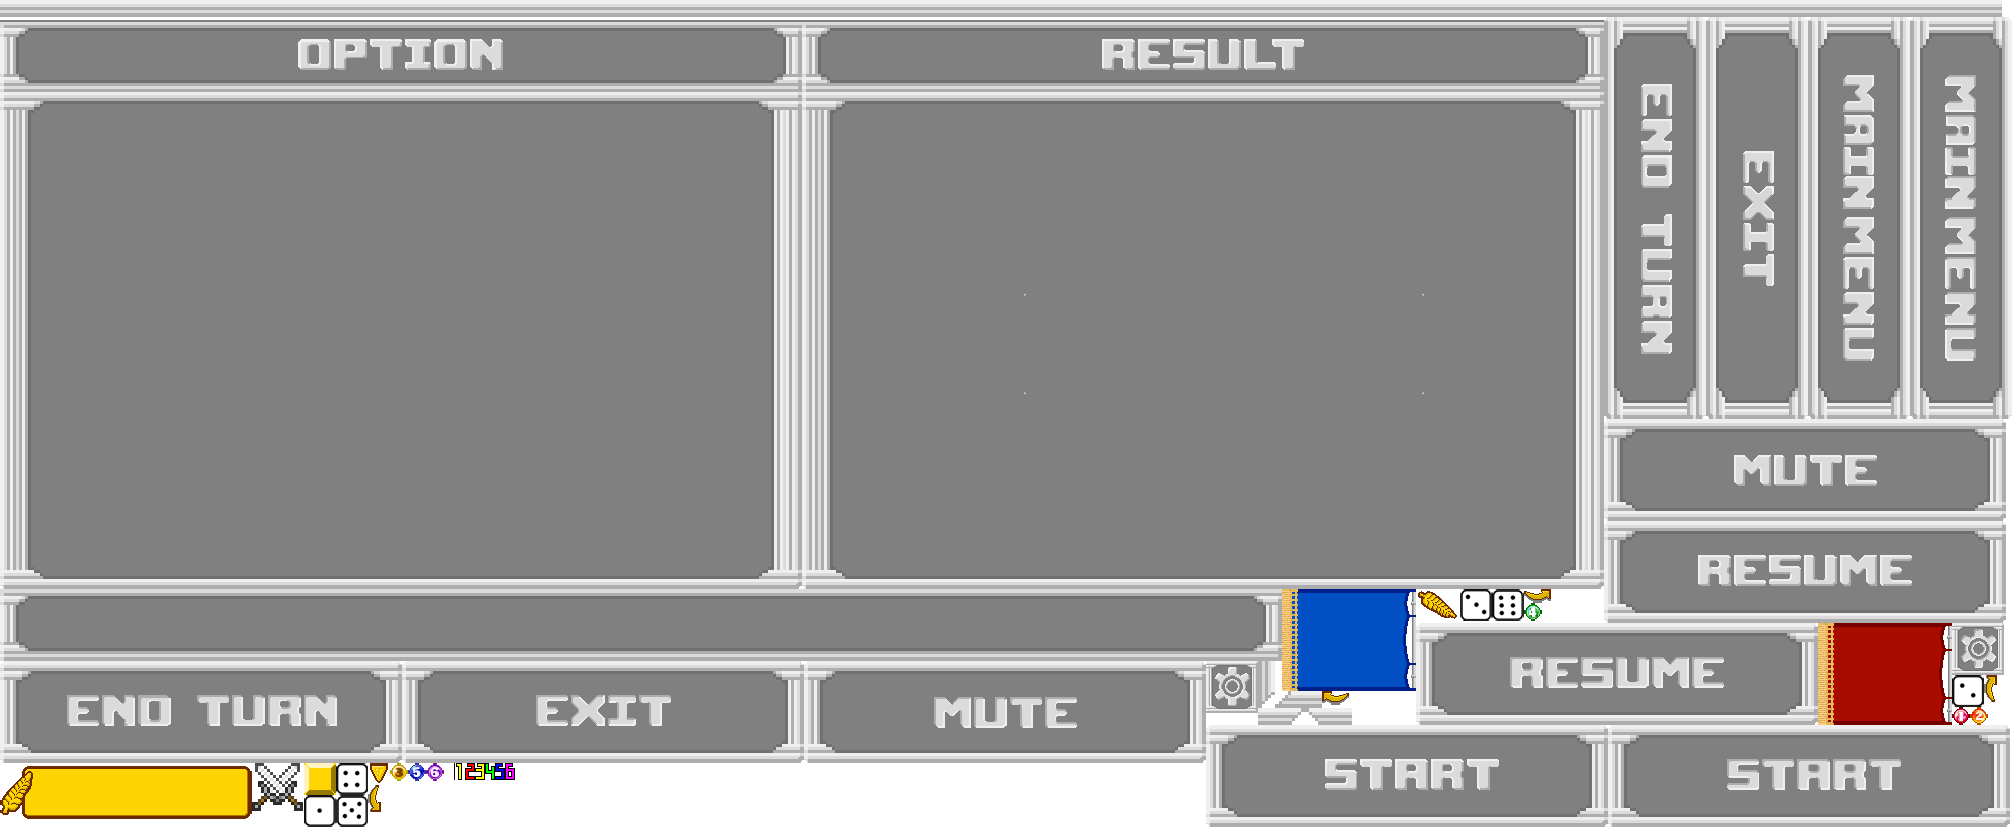
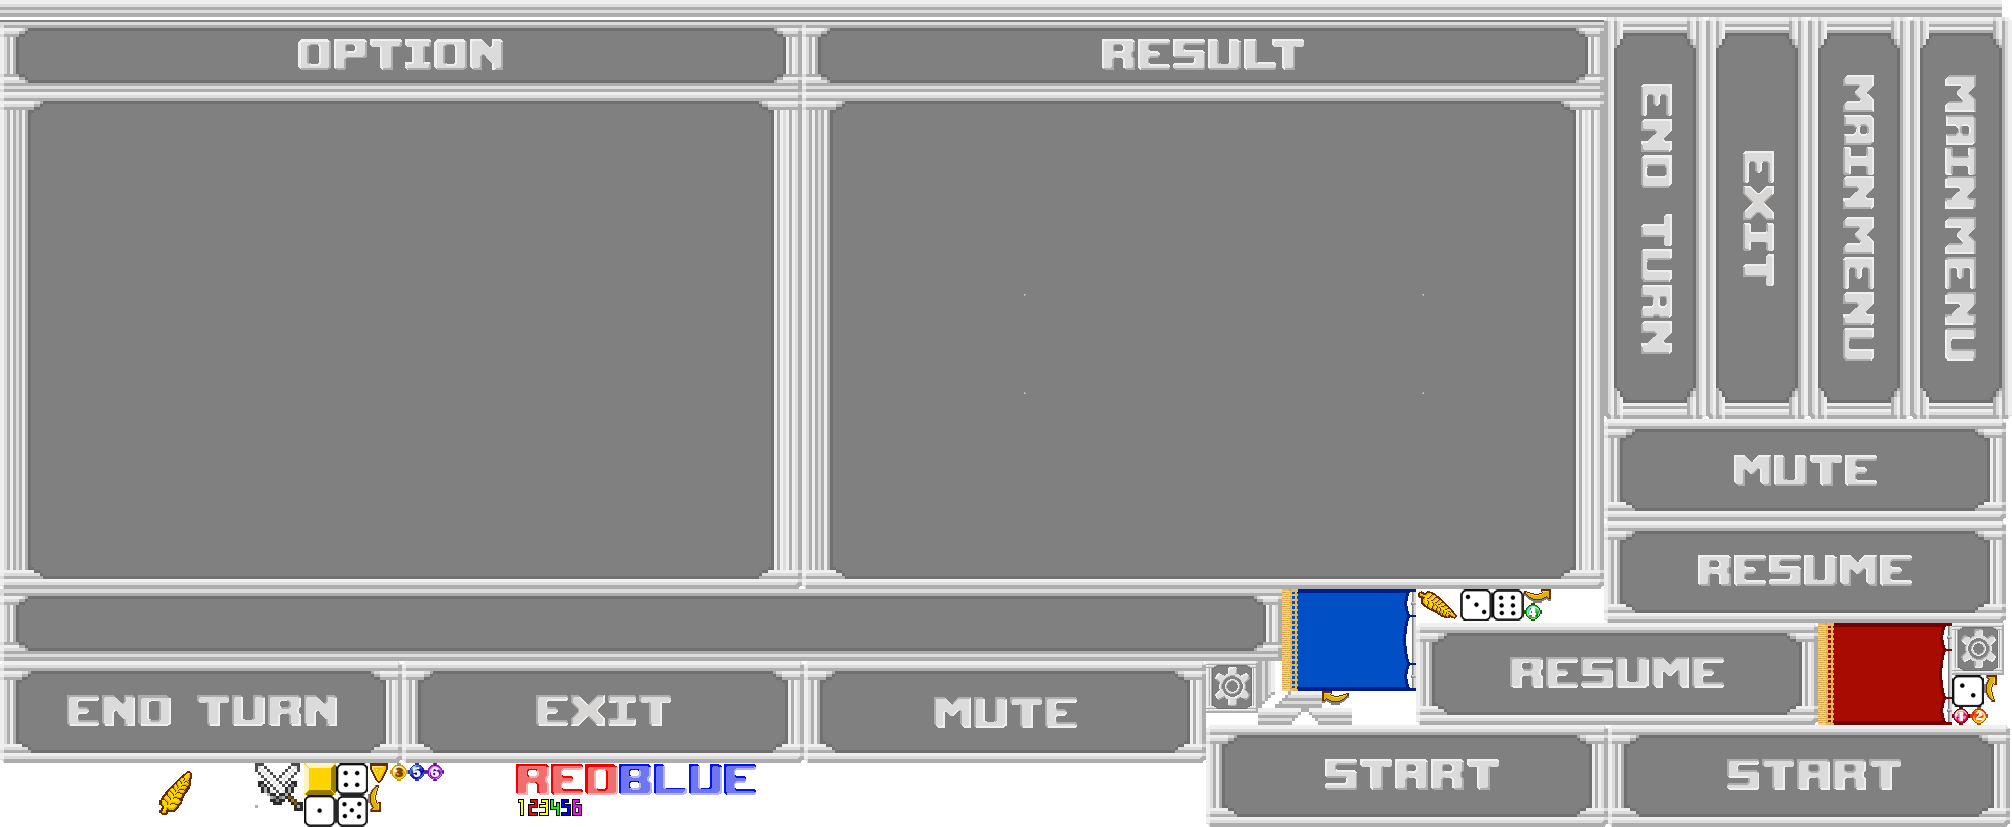
UI 수정
식량표시, 턴표시 수정

Changed region(s): [[0.0, 0.9069, 0.1541, 0.9976], [0.2157, 0.9069, 0.3698, 0.9976]]

diff --git a/Cocos_practice/Classes/UILayer.h b/Cocos_practice/Classes/UILayer.h
@@ -5,15 +5,16 @@
 class UILayer : public cocos2d::LayerColor
 {
 public:
-	bool init();
-	static cocos2d::Scene* scene();
-	const void SetFoodValue(PlayerData* playerData1, PlayerData* playerData2) const;
-	void SelectCharacter(Character* character);
+	bool					init();
+	static cocos2d::Scene*	scene();
+	const void SetFoodValue(PlayerData* currentPlayerData) const;
+	void					SelectCharacter(Character* character);
 	CREATE_FUNC(UILayer);
-
+	void toggleTurn();
 private:
 	LayerColor* BackLayer;
 	LayerColor* PopUpLayer;
-	void	SetUIBar();
-	void ShowOptionWindow(Object *pSender);
+	void		SetUIBar();
+	void		ShowOptionWindow(Object *pSender);
+	Sprite*		_TurnLabel = nullptr;
 };

diff --git a/Cocos_practice/Classes/HistoryEventHarvest.cpp b/Cocos_practice/Classes/HistoryEventHarvest.cpp
@@ -20,7 +20,7 @@ void HistoryEventHarvest::Run()
 	grain->setZOrder(13);
 	FiniteTimeAction* floatAction = MoveTo::create(0.2f, Vec2(grain->getPositionX(), grain->getPositionY() + 80));
 	int xMul = (GM->getCurrentPlayer() == PLAYER_RED) ? 0 : 1;
-	FiniteTimeAction* flyAction = EaseIn::create(MoveTo::create(1.2, Vec2(130 + xMul * 200, 750)),3);
+	FiniteTimeAction* flyAction = EaseIn::create(MoveTo::create(0.6, Vec2(280 + xMul * 200, 750)),3);
 
 
 	cocos2d::CallFunc* doneCall = CallFunc::create(CC_CALLBACK_0(HistoryEventHarvest::SetDone, this, true));

diff --git a/Cocos_practice/Classes/GameScene.cpp b/Cocos_practice/Classes/GameScene.cpp
@@ -85,5 +85,5 @@ void GameScene::MouseDownDispatcher(cocos2d::EventMouse* event)
 
 void GameScene::RefreshFood()
 {
-	(dynamic_cast<UILayer*>(getChildByName("UILayer")))->SetFoodValue(GM->getPlayerDataByPlayerInfo(PLAYER_RED), GM->getPlayerDataByPlayerInfo(PLAYER_BLUE));
+	(dynamic_cast<UILayer*>(getChildByName("UILayer")))->SetFoodValue(GM->getCurrentPlayerData());
 }

diff --git a/Cocos_practice/Classes/definition.h b/Cocos_practice/Classes/definition.h
@@ -121,6 +121,8 @@ enum EventType
 #define FILENAME_IMG_UI_RD_ANCHOR				"anchor_rd.png"
 #define FILENAME_IMG_UI_LU_ANCHOR				"anchor_lu.png"
 #define FILENAME_IMG_UI_RU_ANCHOR				"anchor_ru.png"
+#define FILENAME_IMG_UI_RED						"red.png"
+#define FILENAME_IMG_UI_BLUE					"blue.png"
 
 //UI_BUTTON
 #define FILENAME_IMG_BUTTON_ENDTURN				"end_turn.png"

diff --git a/Cocos_practice/Classes/GameSceneManager.cpp b/Cocos_practice/Classes/GameSceneManager.cpp
@@ -312,7 +312,7 @@ void GameSceneManager::AddChild(Node* targetNode)
 	_Nodes->addChild(targetNode);
 }
 
-void GameSceneManager::ToggleTurn(Object* pSender)
+void GameSceneManager::ToggleTurn()
 {
 	if (_IsInputAble == false)
 		return;
